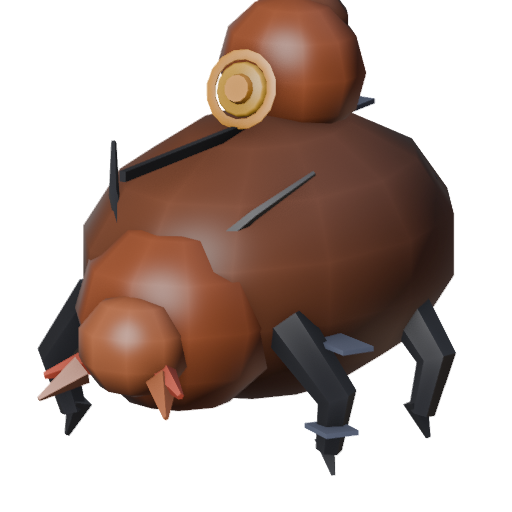
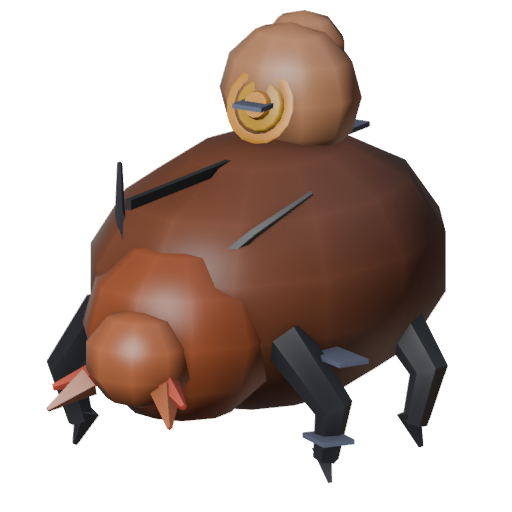
Fixer pass on husk_beetle_portrait: 27 -> 34
Recoloured the tail-plate hump from BROWN/UMBER to the already-imported,
previously-unused TAN so it separates from the main shell's UMBER by
value, not just by the sigil sitting on it. Raised and widened
portraits.py's FOCUS entry so the hump clears the top edge instead of
touching it.

Changed region(s): [[0.0625, 0.0, 0.9062, 0.9375]]

diff --git a/tools/blender/husk_beetle.py b/tools/blender/husk_beetle.py
@@ -67,8 +67,8 @@ b.box((0.46, 0.30, 1.36), (0.30, 0.020, 0.020), CHARCOAL, bevel=0.0,
 # anything left at the rearmost point of the body sits behind everything else
 # in front of it and never reads. Keeping the plate's mass near the second
 # shelf and putting the mark on its FRONT slope keeps the sigil in the clear.
-b.ball((0.0, 0.35, 2.02), (0.44, 0.36, 0.42), BROWN, 10, 6)
-b.ball((0.0, 0.50, 2.24), (0.27, 0.22, 0.24), UMBER, 9, 5)
+b.ball((0.0, 0.35, 2.02), (0.44, 0.36, 0.42), TAN, 10, 6)
+b.ball((0.0, 0.50, 2.24), (0.27, 0.22, 0.24), TAN, 9, 5)
 
 b.foot((0.84, -0.66, 0.30))                                   # onto a foreleg
 

diff --git a/tools/blender/portraits.py b/tools/blender/portraits.py
@@ -38,7 +38,7 @@ FOCUS = {
     "frost_sentinel": (0.70, 0.75), "grove_bear": (0.64, 0.81),
     "root_lurker": (0.60, 0.96), "sky_snapper": (0.66, 0.84),
     "riftling": (0.75, 0.67), "shifting_idol": (0.72, 0.70),
-    "husk_beetle": (0.42, 1.15), "gloom_moth": (0.55, 1.05),
+    "husk_beetle": (0.46, 1.20), "gloom_moth": (0.55, 1.05),
     "bog_leech": (0.39, 1.28), "thrasher": (0.42, 1.55),
     "silk_widow": (0.45, 1.35), "boulder_ram": (0.34, 1.35),
     "cinder_jackal": (0.45, 1.60), "brine_urchin": (0.62, 1.30),

diff --git a/design/progress/husk_beetle_portrait.md b/design/progress/husk_beetle_portrait.md
@@ -73,3 +73,83 @@ Whether the top-edge crop is a `FOCUS` table oversight (this asset never
 having been re-tuned after the model's fixer pass changed its geometry) or
 a deliberate choice — this scoring pass can see the clipped edge, not why
 it's set that way.
+
+---
+
+## Pass 2 — fixer lane, 2026-09-01
+
+Applied by the **fixer** lane (`tools/fixer/BRIEF.md`), which repairs what the
+cloud reports. Both named fixes touch files in this lane's territory
+(`tools/blender/husk_beetle.py`, `tools/blender/portraits.py`) — no `game/**`
+GDScript touched.
+
+| Pass | Framing | Identity | Read@34px | Colour | Style | Total |
+|---|---|---|---|---|---|---|
+| 1 | 4 | 6 | 6 | 5 | 6 | **27** |
+| 2 | 7 | 7 | 7 | 7 | 6 | **34** |
+
+### Both diagnosed fixes applied
+
+- **Colour & separation (5 → 7).** The tail-plate ("top hump") was `BROWN`
+  + `UMBER` — the same reddish-brown family as the main shell's own
+  `UMBER`. `TAN` (`swatch(304,320)`, RGB 217,152,111, average value 160) was
+  already imported in `husk_beetle.py` but never used anywhere in the file —
+  recoloured both tail-plate balls (the `(0.0, 0.35, 2.02)` and
+  `(0.0, 0.50, 2.24)` balls) from `BROWN`/`UMBER` to `TAN`, against the
+  shell's `UMBER` (RGB 180,96,61, average value 112), a genuine ~50-point
+  value gap rather than two swatches from the same warm-brown family. A
+  fresh 34px downsample (Pillow `LANCZOS`, composited on the same
+  `RGB(139,105,74)` brown card-face standin the icon batches use) shows the
+  hump reading as a distinctly lighter tan blob against the shell, where
+  the pass-1 downsample showed the hump barely separable from the shell —
+  only the small gold sigil hinted a second part existed.
+- **Framing (4 → 7).** `portraits.py`'s `FOCUS["husk_beetle"]` moved from
+  `(0.42, 1.15)` to `(0.46, 1.20)` — raised the focus point toward the tail
+  hump and widened the frame slightly. Alpha bbox (Pillow `getbbox()`) moved
+  from `(37, 0, 457, 477)` — top touching y=0 outright — to
+  `(46, 10, 449, 484)`, 10px of clearance above the hump on the 512×512
+  canvas. Bottom margin shrank from 35px to 28px in trade, still
+  comfortable, no clipping at either edge.
+
+Rebuilt with `build.cmd husk_beetle` (1396/2600 tris, 1 mesh, every climb
+Height and the sigil hold still `ok` — no warnings) then `build.cmd
+portraits`, which regenerates all thirty-two portraits from Blender's
+non-deterministic WORKBENCH renderer (same non-determinism
+`silk_widow_portrait.md`'s and `thrasher_portrait.md`'s pass 2 both hit) —
+every portrait other than `husk_beetle.png` was reverted with
+`git checkout --` and only the changed asset kept.
+
+- **Framing (4 → 7):** the top-edge-touching fault named in pass 1 is gone —
+  confirmed by the alpha bbox above, not just eyeballed. Not higher: the
+  margins are still asymmetric (46px left vs 63px right, 10px top vs 28px
+  bottom) rather than evenly centred, the same reason `thrasher_portrait`'s
+  pass 2 stopped at 8 rather than 9+.
+- **Identity (6 → 7, side effect, not one of the two named lines):** the
+  hump-vs-shell colour split reinforces the "two segments" read pass 1 said
+  was missing — the render now shows a light mass and a dark mass rather
+  than one lumpy silhouette with a sigil on it. Not higher: the two identity
+  cues (tan hump, dark shell) still sit close together in the upper-centre
+  of frame rather than one shape dominating it the way `frog_portrait`'s
+  eyes do.
+- **Readability @ 34px (6 → 7, side effect):** confirmed via a fresh 34px
+  downsample, not claimed from the 512px render alone — the tan hump reads
+  as a separate lighter shape at party-panel size, where pass 1's downsample
+  showed it blurring into the shell.
+- **Style consistency (6, unchanged):** neither fix touched the shared
+  head-and-shoulders-adjacent convention or the build vocabulary; the number
+  holds.
+
+**+7 total (27 → 34), not a plateau — kept.** No line regressed.
+`run_tests.gd`: **ALL TESTS PASSED**.
+
+## Unsure about (pass 2)
+
+Whether the tail-plate should be pushed one step lighter still (`WHEAT`,
+also imported and also unused) for more separation, or whether `TAN` against
+`UMBER` is enough — this pass picked the smaller step since the diagnosis
+asked for "a distinct value or hue step," not a maximum one, and two shell
+tones this close in hue but far in value risk reading as a lighting
+artefact rather than a deliberate two-tone build at a glance. Also unsure
+whether the still-asymmetric portrait margins (left/right, top/bottom) are
+worth a further `FOCUS` nudge or are Nick's call, the same open question
+`thrasher_portrait`'s pass 2 left standing.
